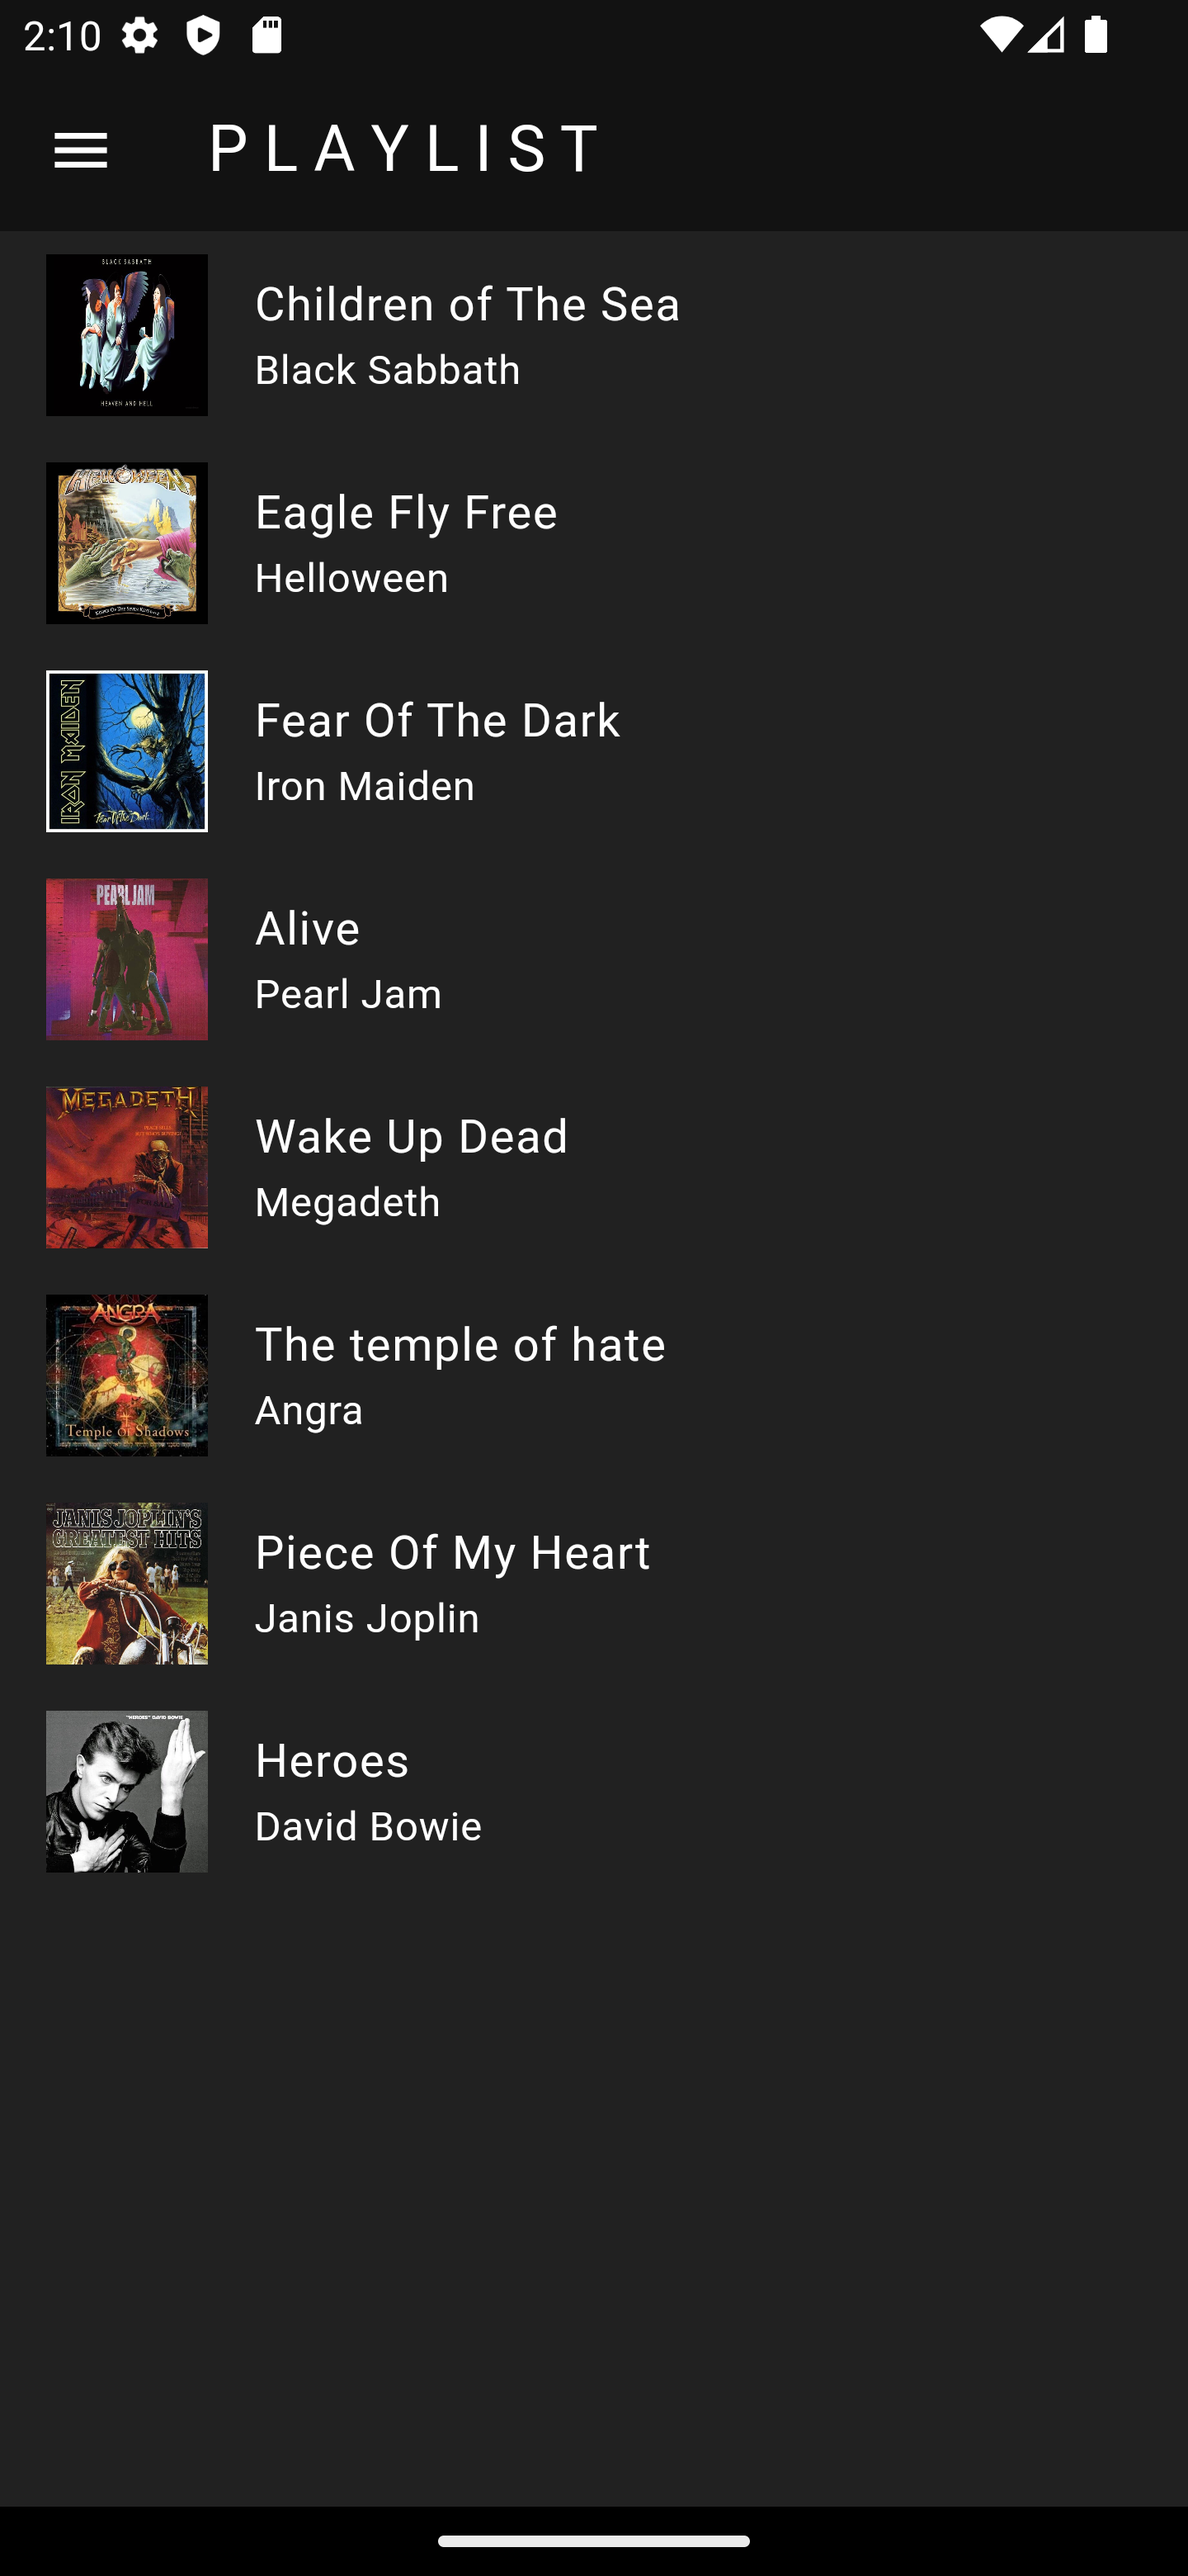
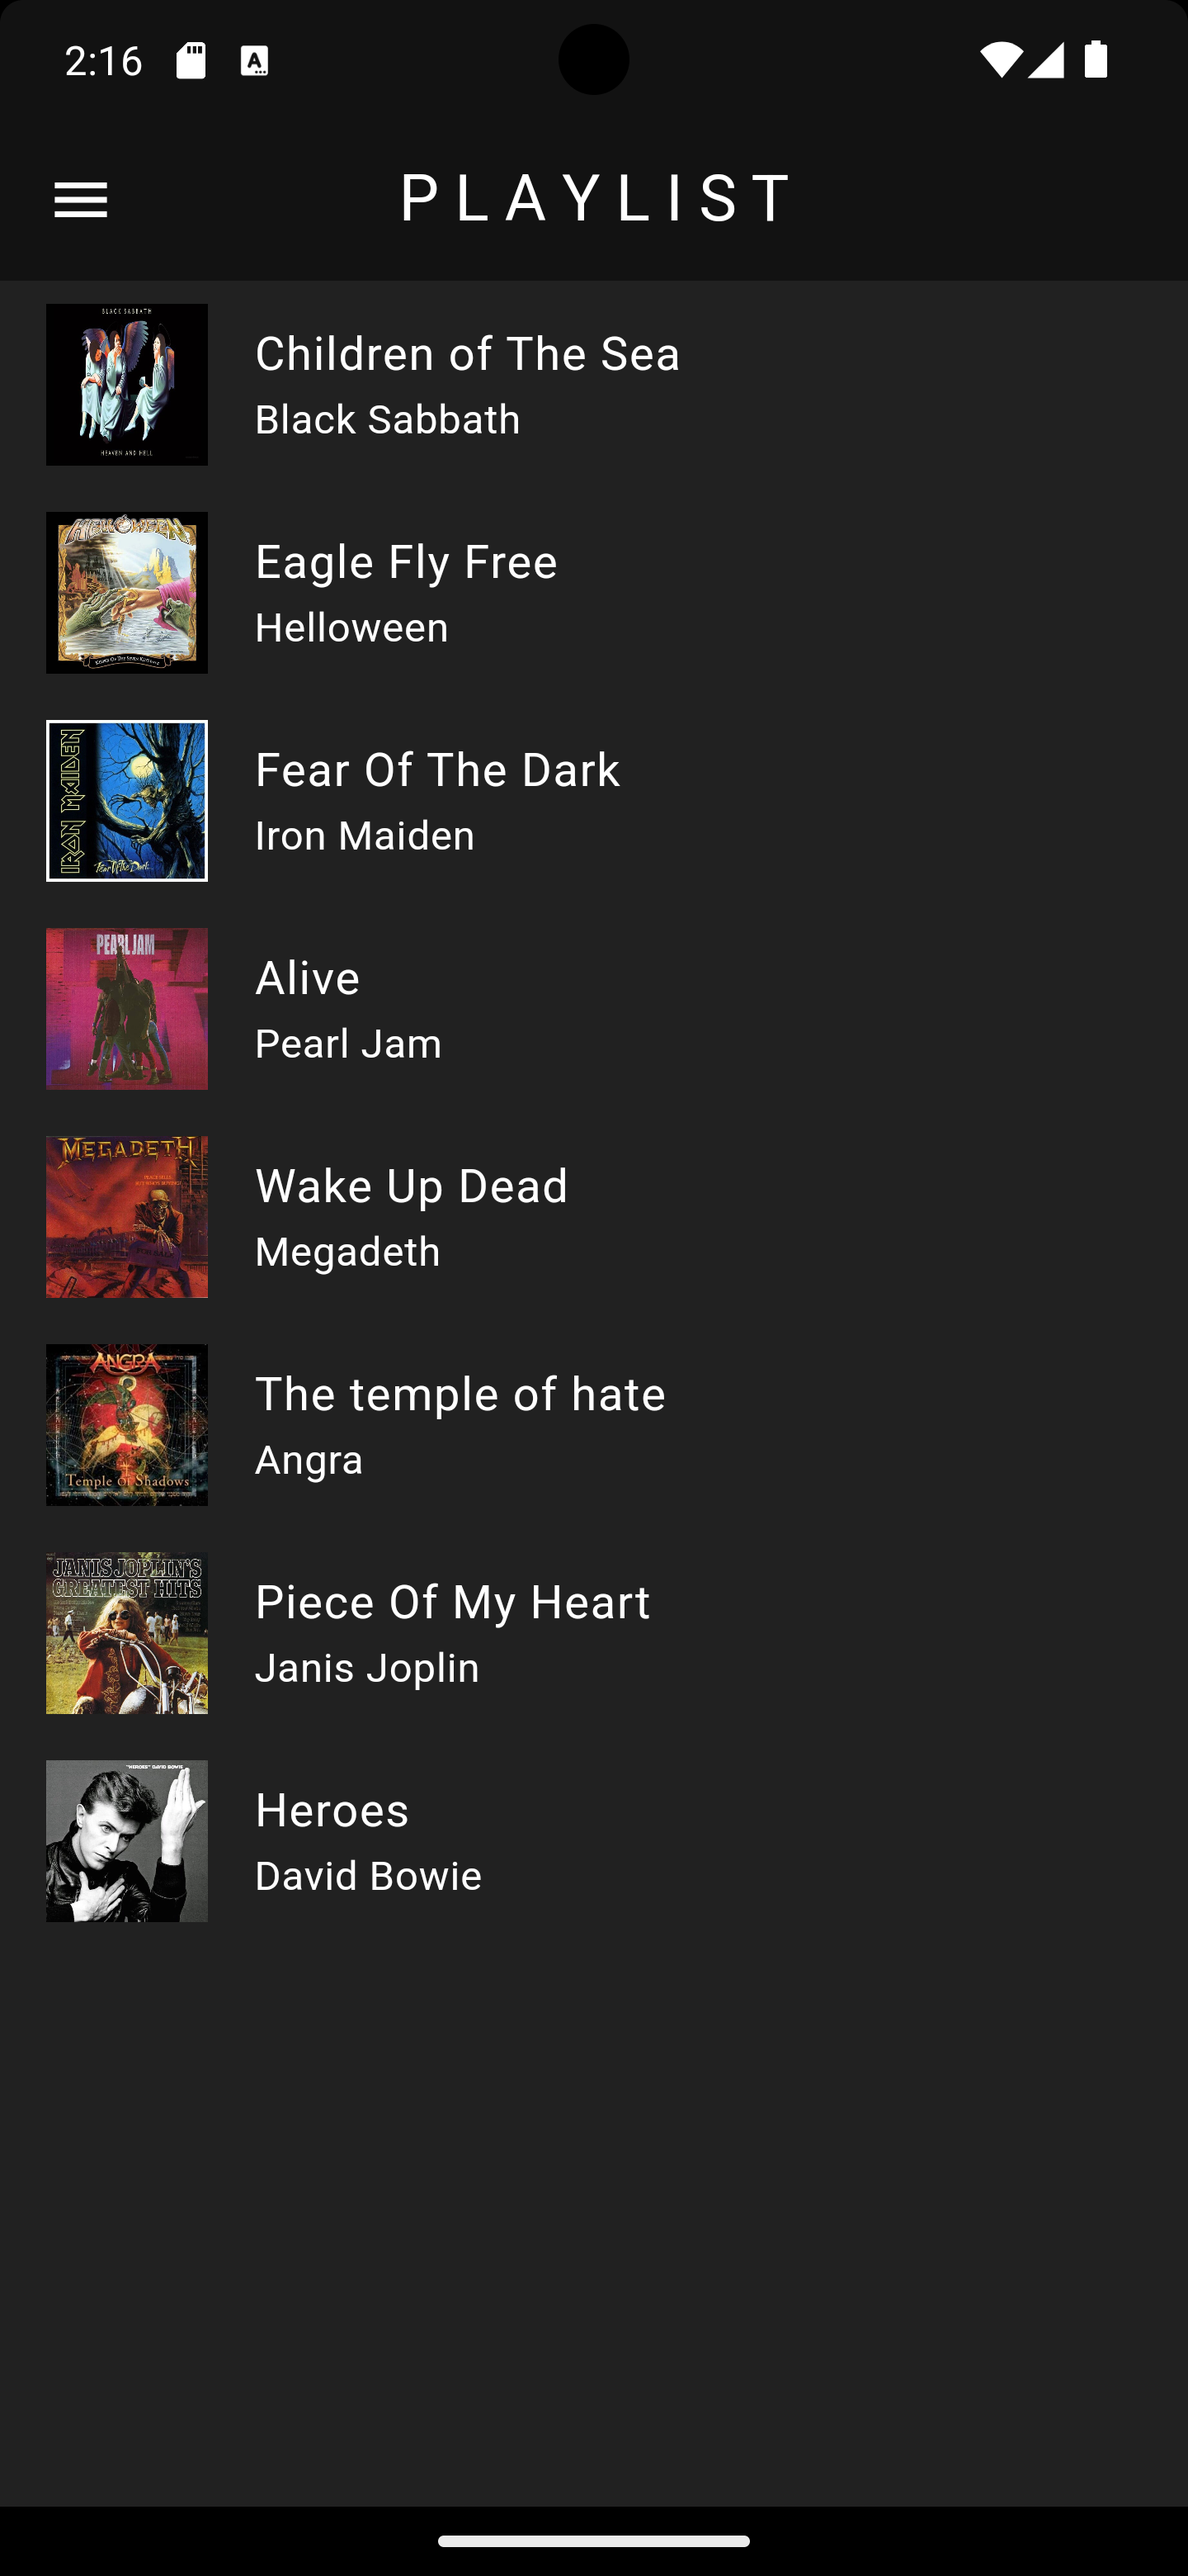
correction in Text centralized in home page android version

diff --git a/lib/pages/home_page.dart b/lib/pages/home_page.dart
@@ -37,7 +37,10 @@ class _HomePageState extends State<HomePage> {
   Widget build(BuildContext context) {
     return Scaffold(
       backgroundColor: Theme.of(context).colorScheme.background,
-      appBar: AppBar(title: const Text("P L A Y L I S T")),
+      appBar: AppBar(
+        title: const Text("P L A Y L I S T"),
+        centerTitle: true,
+      ),
       drawer: const MyDrawer(),
       body: Consumer<PlaylistProvider>(builder: (context, value, child) {
         final List<Song> playlist = value.playlist;
